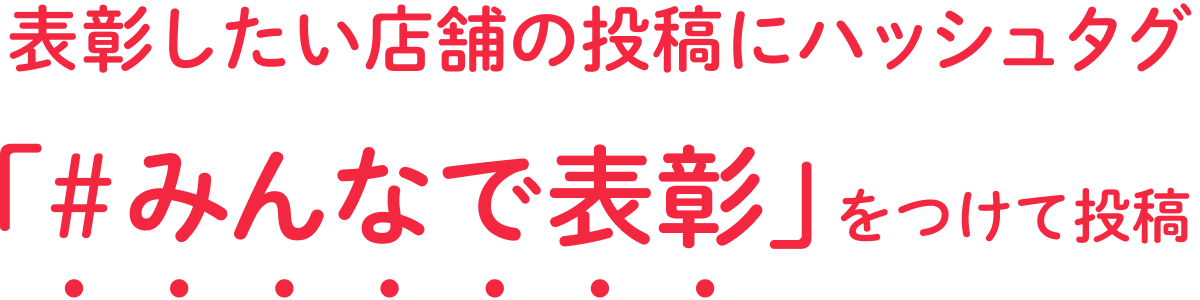
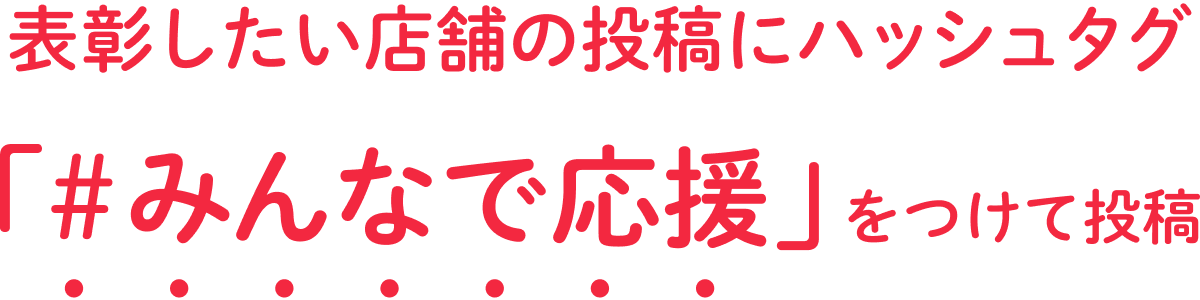
変更

Changed region(s): [[0.0308, 0.48, 1.0, 0.84], [0.0, 0.48, 0.0308, 0.51]]

diff --git a/hyosyo/index.html b/hyosyo/index.html
@@ -6,7 +6,7 @@
 	<meta charset="utf-8">
 	<meta http-equiv="X-UA-Compatible" content="IE=edge">
 	<meta name="viewport" content="width=device-width, initial-scale=1">
-	<title>みんなの表彰キャンペーン</title>
+	<title>みんなの応援キャンペーン</title>
 	<link rel="stylesheet" href="assets/css/style.css">
 	<link rel="stylesheet" href="assets/css/reset.css">
 </head>
@@ -26,7 +26,7 @@
 		<main id="main">
 			<hr class="stl">
 			<div id="overview">
-				<div class="txt">頑張る飲食店を表彰しよう！グルメSNSシンクロライフへの投稿が表彰状として飲食店へ届く、「＃みんなで表彰」キャンペーン開始。<br>〜あの店があってよかった、の想いを届ける〜</div>
+				<div class="txt">頑張る飲食店を表彰しよう！グルメSNSシンクロライフへの投稿が表彰状として飲食店へ届く、「＃みんなで応援」キャンペーン開始。<br>〜あの店があってよかった、の想いを届ける〜</div>
 				<div class="step"><img src="assets/img/step.png" /></div>
 				<div class="postcard">
 					<div class="txt">あなたの想いが下記イメージのように<br>お店に直接届きます</div>
@@ -42,7 +42,7 @@
 				<br>
 				<span class="bold">お気に入りのあのお店、行きつけのあのお店の料理</span>の写真とともに、<span class="bold">好きな「賞」</span>を名付けて表彰しましょう！<br>
 				<br>
-				「店主の笑顔が最高で賞」「モツ煮込みヤバイで賞」などご自身が贈りたい賞を作って、<span class="bold">「#みんなで表彰」</span>で投稿してください。<br>
+				「店主の笑顔が最高で賞」「モツ煮込みヤバイで賞」などご自身が贈りたい賞を作って、<span class="bold">「#みんなで応援」</span>で投稿してください。<br>
 				<br>
 				あなたの投稿を印刷して、実際にその店舗にシンクロライフがお届けします。<br>
 				<br>
@@ -53,7 +53,10 @@
 				<div class="st_participation"><img src="assets/img/st_participation.png" /></div>
 				<div class="tag">
 					<div class="img"><img src="assets/img/tag.png" /></div>
-					<div class="txt">※1人につき5店舗まで</div>
+					<div class="txt">・【◯◯◯◯賞】をコメント内に<br>
+						・コメントは100文字以上<br>
+						・1人5店舗まで表彰可能
+				</div>
 				</div>
 				<div id="ex">
 					<div class="st"><img src="assets/img/st_ex.png" /></div>
@@ -63,17 +66,18 @@
 						<li>・頑張りま賞</li>
 					</ul>
 				</div>
-				<div class="ex_txt">賞の最大文字数は?文字まで</div>
+				<div class="ex_txt">賞の最大文字数は20文字までとなります。</div>
 			</section>
 			<section id="note">
 				<div class="st_note"><img src="assets/img/st_note.png" /></div>
 				<div class="stage">
 					<ul>
-						<li><p>運営で、判断して送らない場合がある</p></li>
-						<li><p>○通到達したら打ち切り</p></li>
-						<li><p>ハッシュタグのないもの、文字数オーバーのものは送られない</p></li>
-						<li><p>ここに注意事項の内容が入りますここに注意事項の内容が入ります</p></li>
-						<li><p>改行テストここに文章が入ります改行テストここに文章が入ります改行テストここに文章が入ります改行テストここに文章が入ります</p></li>
+						<li><p>表彰の対象店舗は日本国内に限ります。</p></li>
+						<li><p>過去投稿の編集では表彰対象になりません。</p></li>
+						<li><p>当社基準により表彰コンセプトに沿わないものは除外させて頂きます。</p></li>
+						<li><p>表彰状が届く件数は上限5,000件となります。</p></li>
+						<li><p>表彰状は郵便ハガキで郵送されます。</p></li>
+						<li><p>ハガキ送付のため、表彰状の到着保証はできないことをご了解ください。</p></li>
 					</ul>
 				</div>
 			</section>
